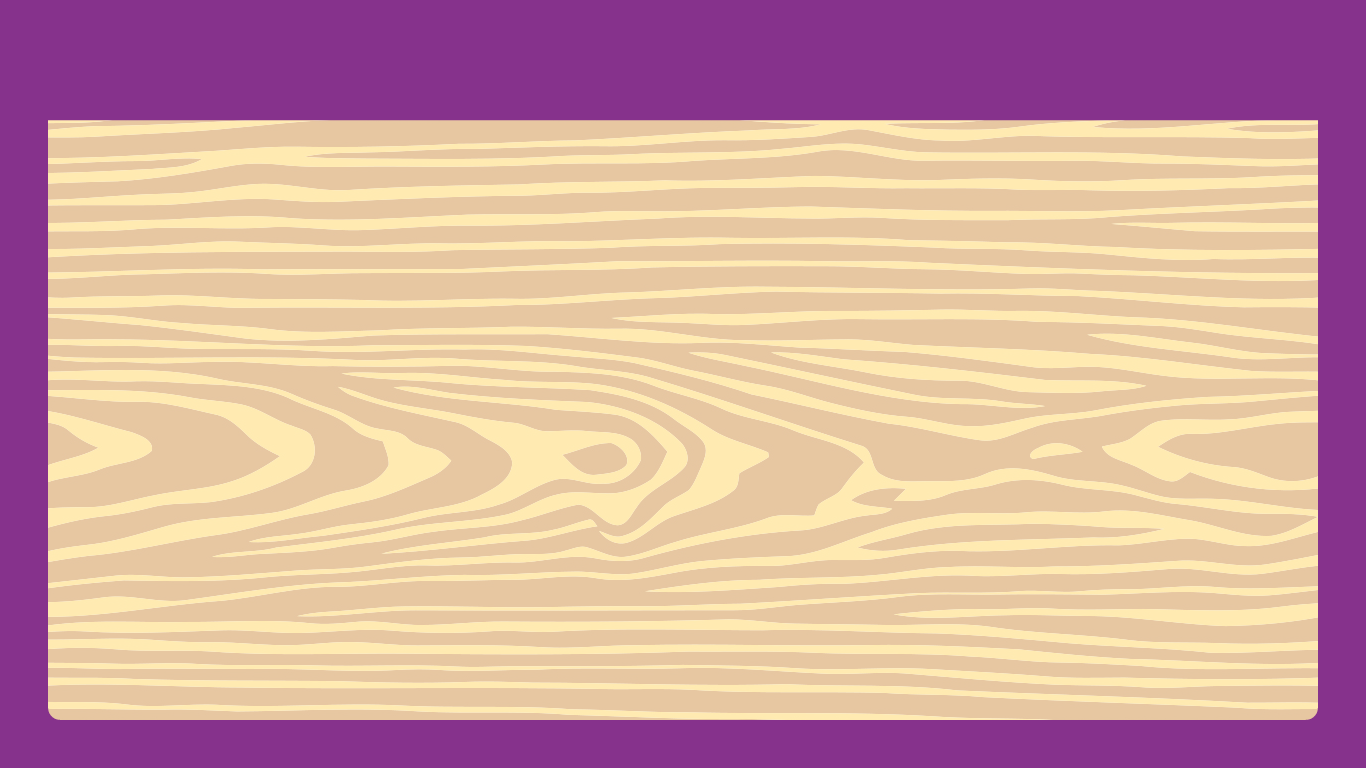
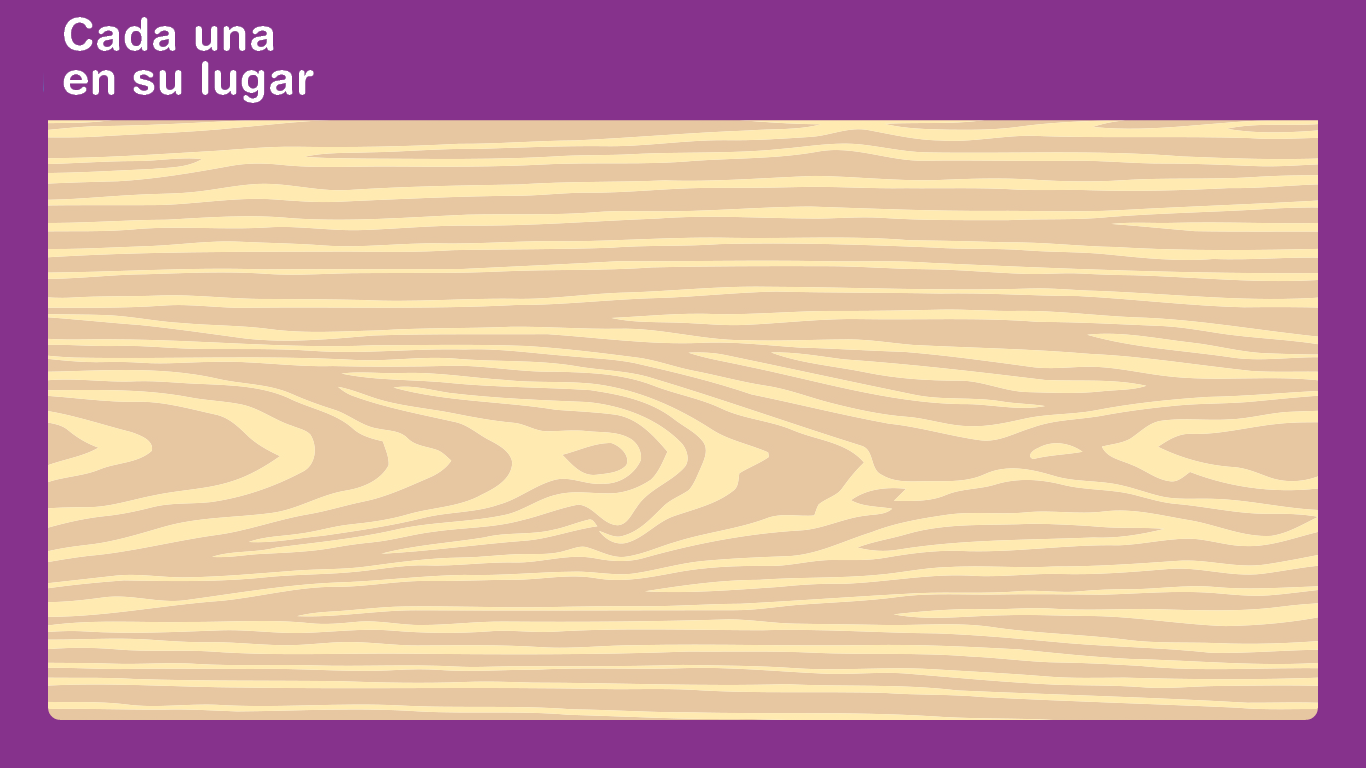
Listo J4

Changed region(s): [[0.0307, 0.0312, 0.246, 0.125]]

diff --git a/j4.py b/j4.py
@@ -1,0 +1,246 @@
+__author__ = 'Burgos, Agustin - Schelotto, Jorge'
+# -*- coding: utf-8 -*-
+
+# Copyright 2018 autors: Burgos Agustin, Schelotto Jorge
+#
+# Permission is hereby granted, free of charge, to any person obtaining a copy of this software and associated
+# documentation files (the "Software"), to deal in the Software without restriction, including without limitation
+# the rights to use, copy, modify, merge, publish, distribute, sublicense, and/or sell copies of the Software,
+# and to permit persons to whom the Software is furnished to do so, subject to the following conditions:
+#
+# The above copyright notice and this permission notice shall be included in all copies or substantial portions of the Software.
+#
+# THE SOFTWARE IS PROVIDED "AS IS", WITHOUT WARRANTY OF ANY KIND, EXPRESS OR IMPLIED, INCLUDING BUT NOT LIMITED
+#  TO THE WARRANTIES OF MERCHANTABILITY, FITNESS FOR A PARTICULAR PURPOSE AND NONINFRINGEMENT. IN NO EVENT SHALL
+# THE AUTHORS OR COPYRIGHT HOLDERS BE LIABLE FOR ANY CLAIM, DAMAGES OR OTHER LIABILITY, WHETHER IN AN ACTION
+# OF CONTRACT, TORT OR OTHERWISE, ARISING FROM, OUT OF OR IN CONNECTION WITH THE SOFTWARE OR THE USE OR OTHER
+# DEALINGS IN THE SOFTWARE.
+
+
+import pygame
+from pygame.locals import *
+from Icono import Icono
+from Imagenes import Imagen
+import os
+import random
+from Palabras import Palabras
+
+
+# Set Up el arte y sonido (assets)
+game_folder = os.path.dirname(__file__)
+folder = os.path.join(game_folder, "Imagenes")
+img_folder = os.path.join(folder, "j1")
+img_folder2 = os.path.join(folder, "j4")
+A_folder = os.path.join(os.path.join(os.path.join(game_folder, "Imagenes"), "j4"), "A.png")
+E_folder = os.path.join(os.path.join(os.path.join(game_folder, "Imagenes"), "j4"), "E.png")
+I_folder = os.path.join(os.path.join(os.path.join(game_folder, "Imagenes"), "j4"), "I.png")
+O_folder = os.path.join(os.path.join(os.path.join(game_folder, "Imagenes"), "j4"), "O.png")
+U_folder = os.path.join(os.path.join(os.path.join(game_folder, "Imagenes"), "j4"), "U.png")
+H = 200
+W = 80
+
+
+
+class Main:
+    """Menu principal del juego"""
+    def __init__(self):
+        self.running = True
+        self.screen = pygame.display.set_mode((0,0), pygame.FULLSCREEN)
+        self.clock = pygame.time.Clock()
+        self.FPS = 30
+        self.load = pygame.image.load(os.path.join(img_folder2, "fondo-04.png")).convert()
+        self.image = pygame.transform.scale(self.load, self.screen.get_size())
+
+
+
+    def on_init(self):
+        """Inicializo pygame y creo la ventana principal"""
+        print("Load!")
+        pygame.init()
+        pygame.mixer.init()
+        #self.screen = pygame.display.set_mode((0,0), pygame.FULLSCREEN)
+        pygame.display.set_caption("Main Menu")
+
+    def clean_up(self):
+        """Limpia los módulos de pygame"""
+        pygame.quit()
+        print("Quit!")
+
+    def check_events(self, iconos, player, enemigos):
+        """Verifico los eventos dentro del loop"""
+        for event in pygame.event.get():
+            if event.type == pygame.QUIT:
+                self.running = False
+            elif event.type == KEYDOWN:
+                if event.key == K_ESCAPE:
+                    self.running = False
+            elif event.type == MOUSEBUTTONDOWN:
+                for icono in iconos:
+                    if icono.rect.collidepoint(event.pos):
+                        if icono.name == 'quit':
+                            self.running = False
+                        print('Click icono: {}'.format(icono.name))
+                for Player in player:
+                    if Player.getRect().collidepoint(event.pos):
+                        #print('Click palabra')
+                        Player.setClick(True)
+            elif event.type == MOUSEBUTTONUP:
+                for Player in player:
+                    Player.setClick(False)
+                    for Enemigo in enemigos:
+                        if pygame.sprite.collide_rect(Player, Enemigo):
+                            print('Toque un enemigo!', Enemigo.getNombre())
+                            if Player.getPalabra().upper() == Enemigo.getNombre():
+                                print(Player.getPalabra()[0].upper(), Enemigo.getNombre() )
+                                Player.rect.center = Enemigo.rect.center
+                                print('Palabra {} toco a Imagen {}. Suma 10!'.format(Player.getPalabra(), Enemigo.getNombre()))
+                                Player.collide = True
+
+
+    def randomEnemigos(self):
+        """Genera un diccionario aleatorio y sin repeticiones con los nombres y las direcciones de los archivos de letras"""
+        game_folder = os.path.dirname(__file__)
+        enemies_folder = os.path.join(os.path.join(os.path.join(os.path.join(os.path.join(game_folder, "Imagenes"), "j4"), "imagenes"), "faciles"), "palabras")
+        lista_enemigos = os.listdir(enemies_folder)
+
+        letra = ['A', 'E', 'I', 'O', 'U']
+
+
+        con=[]
+        while len(con) != 4:
+            valor = random.randrange(len(lista_enemigos)-1)
+            print(valor)
+            if valor not in con:
+                con.append(valor)
+
+
+        lista = []
+        for num in con:
+            lista.append(lista_enemigos[num])
+
+
+        pal2 = {}
+        for palabras in lista:
+            pal2[palabras.replace('\n', '').upper()] = os.path.join(enemies_folder, palabras)
+
+        print(pal2)
+
+        return pal2
+
+    def randomPlayers(self, dic_letras):
+        """Genera un diccionario aleatorio y sin repeticiones con los nombres y las direcciones de los archivos de imagenes"""
+        game_folder = os.path.dirname(__file__)
+        folder = os.path.join(os.path.join(os.path.join(os.path.join(os.path.join(game_folder, "Imagenes"), "j4"), "Imagenes"), 'faciles'), 'imagenes')
+        players_folder = os.path.join(os.path.join(os.path.join(os.path.join(os.path.join(game_folder, "Imagenes"), "j4"), "imagenes"), "faciles"), "palabras")
+        lista_players = os.listdir(players_folder)
+
+
+
+        # Creo una lista de numeros aleatorios.
+        con = []
+        while len(con) < 4:
+            valor = random.randrange(len(lista_players)-1)
+            if valor not in con:
+                con.append(valor)
+        print(con)
+
+        lista = []
+        num = 0
+        print('Tamaño del archivo: ', len(lista_players))
+        print(dic_letras)
+        letras =[]
+        while len(lista) < 4:
+            if lista_players[num].upper() in dic_letras:
+                print(lista_players[num].upper())
+                # si esta en el diccionario de palabras
+                lista.append(lista_players[num])
+                letras.append(lista_players[num][0].upper())
+            num = num +1
+
+            print('no se cumple condicion')
+            print(lista_players[num].upper())
+            print(dic_letras)
+            print(lista)
+            #buscar mas con I y con O
+        for palabra in lista_players:
+            if lista[random.randrange(2)][0] == palabra[0] and lista[random.randrange(2)] != palabra:
+                lista.append(palabra)
+                break
+        print(lista)
+
+        pal2 = {}
+        for palabras in lista:
+            pal2[palabras.replace('\n', '')] = os.path.join(
+                os.path.join(os.path.join(os.path.join(os.path.join(game_folder, "Imagenes"), "j1"), "Imagenes"),
+                             'facil'), palabras).replace('\n', '')
+
+        print(pal2)
+
+        return pal2
+
+
+
+    def execute(self):
+        """Loop del juego"""
+
+        self.on_init()
+        iconos = [Icono('quit', os.path.join(img_folder2, "flecha4.png"), 1250, 100 )]
+
+        dic_letras = self.randomEnemigos()
+        letras_x = 160
+        letras_y= 320
+        letras = []
+        for key, value in dic_letras.items():
+            letras.append(Imagen(key, value, letras_x, letras_y, H, W))
+            letras_x = letras_x + 345
+
+        dic_jugadores = self.randomPlayers(dic_letras).copy()
+        jugadores = []
+
+        PALABRAS_X = 200
+        PALABRAS_Y = 570
+        for nombre, ruta in dic_jugadores.items():
+            jugadores.append(Palabras(ruta, nombre, PALABRAS_X, PALABRAS_Y))
+            PALABRAS_X = PALABRAS_X + 320
+
+        def ls(ruta='.'):
+            return os.listdir(ruta)
+
+
+        while self.running:
+            print(ls(img_folder2))
+
+            """Loop principal del programa"""
+            self.clock.tick(self.FPS)
+            self.screen.blit(self.image, (0, 0))
+
+
+            # Update
+            self.check_events(iconos, jugadores, letras)
+            for icono in iconos:
+                icono.update(self.screen)
+                if icono.rect.collidepoint(pygame.mouse.get_pos()):
+                    icono.hover = True
+                else:
+                    icono.hover = False
+
+            for enemy in letras:
+                enemy.update(self.screen)
+
+            for jugador in jugadores:
+                jugador.update(self.screen)
+
+
+
+            # Draw / Render
+
+
+
+            # update la pantalla
+            pygame.display.update()
+
+        self.clean_up()
+
+if __name__ == "__main__":
+    game = Main()
+    game.execute()

diff --git a/Palabras.py b/Palabras.py
@@ -19,7 +19,7 @@ import pygame
 
 class Palabras(pygame.sprite.Sprite):
     def __init__(self, ruta, nombre, x, y):
-        super(Palabras, self).__init__()
+        super().__init__()
         self.__palabra = nombre
         self.__click = False
         self.image = pygame.image.load(ruta)#.convert()
